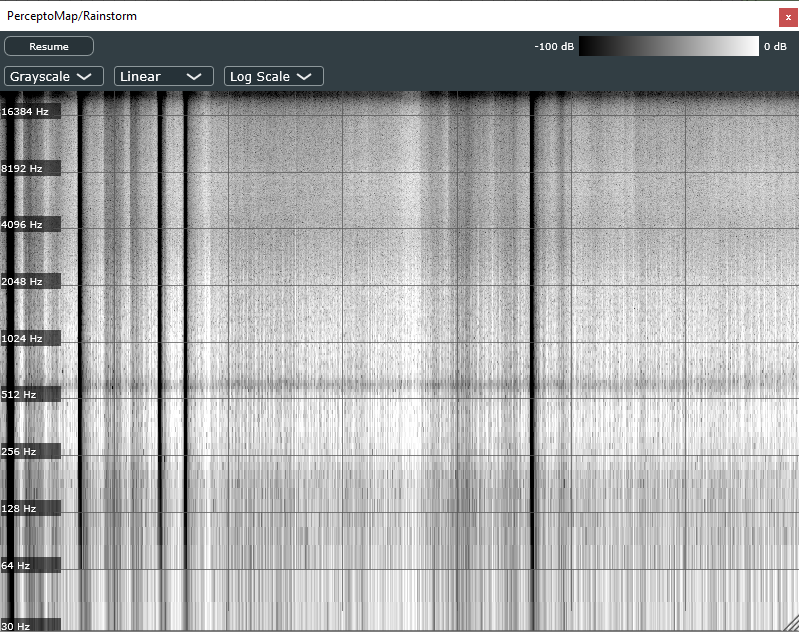
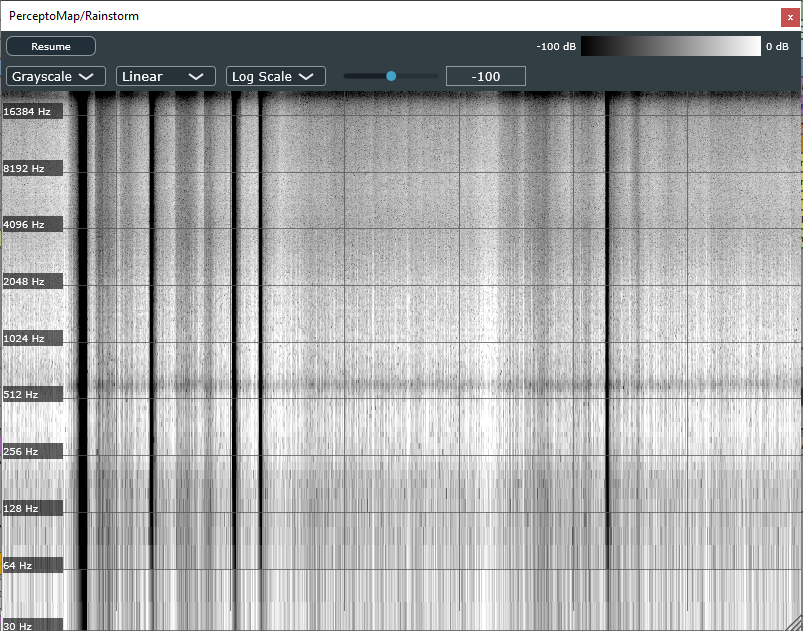
Release v0.3

diff --git a/README.md b/README.md
@@ -9,11 +9,12 @@ Unlike typical spectrum or spectrogram analyzers, it supports perceptual visuali
 > 🎧 If you're the kind of creator who trusts your ears above all — you might not need this.  
 > But if you're curious about how your audio *measures up* to what humans actually hear… welcome aboard.
 
-## Features
+## Key Features
 
 - Real-time **Mel Spectrogram** display with perceptual frequency scaling
 - Real-time **Mel-frequency cepstral coefficients (MFCCs)** representing timbral texture and spectral envelope
-- Visual analysis of **Chroma**, **Tempogram**, and other psychoacoustic features *(planned)*  
+- Real-time **Spectral Centroid** tracking to visualize spectral brightness (center of mass of STFT spectrum)
+- Visual analysis of **Chroma**, **Tempogram**, and other psychoacoustic features *(planned)* 
 - Configurable color maps
 - Optional dB scaling, log or linear frequency axis for classic linear STFT spectrogram
 - Freeze frame mode and interactive mouse hover to inspect frequency and loudness at any point
@@ -24,6 +25,23 @@ Unlike typical spectrum or spectrogram analyzers, it supports perceptual visuali
   <img src="_pics/gui_ableton_live_12.png" width="100%" alt="GUI" />
   <sub>Plugin User Interface in Ableton Live 12</sub>
 </p>
+
+---
+
+<table style="table-layout: fixed; width: 100%;">
+  <tr>
+    <td align="center" valign="top">
+      <img src="_pics/gui_resize_window_2.png" width="100%" alt="Resizable GUI Small" />
+      <br/>
+      <sub><strong>Resizable GUI</strong><br/>Window can shrink to fit minimal layout</sub>
+    </td>
+    <td align="center" valign="top">
+      <img src="_pics/gui_resize_window_1.png" width="100%" alt="Resizable GUI Large" />
+      <br/>
+      <sub><strong>Resizable GUI</strong><br/>Window expands for detailed viewing</sub>
+    </td>
+  </tr>
+</table>
 
 ---
 
@@ -49,24 +67,15 @@ Unlike typical spectrum or spectrogram analyzers, it supports perceptual visuali
 
 ---
 
-<p align="center">
-  <img src="_pics/gui_mouse_info.png" width="100%" alt="Hover Frequency Readout" />
-  <sub><strong>Hover Readout</strong><br/>Displays precise frequency and dB level under the mouse pointer</sub>
-</p>
-
----
-
 <table style="table-layout: fixed; width: 100%;">
   <tr>
     <td align="center" valign="top">
-      <img src="_pics/gui_resize_window_2.png" width="100%" alt="Resizable GUI Small" />
-      <br/>
-      <sub><strong>Resizable GUI</strong><br/>Window can shrink to fit minimal layout</sub>
+      <img src="_pics/gui_mouse_info.png" width="100%" alt="Hover Frequency Readout" />
+      <sub><strong>Hover Readout</strong><br/>Displays precise frequency, dB level, and corresponding MIDI note (C4 = Middle C) <span style="color: gray;">[added in v0.3]</span> under the mouse pointer.</sub>
     </td>
     <td align="center" valign="top">
-      <img src="_pics/gui_resize_window_1.png" width="100%" alt="Resizable GUI Large" />
-      <br/>
-      <sub><strong>Resizable GUI</strong><br/>Window expands for detailed viewing</sub>
+      <img src="_pics/gui_color_scheme_floor_value.png" width="100%" alt="Hover Frequency Readout" />
+      <sub><strong>Adjustable dB Floor Slider</strong><br/>Controls the minimum dB threshold for color brightness, helping visualize low-level signals. <span style="color: gray;">[added in v0.3]</span></sub>
     </td>
   </tr>
 </table>
@@ -116,18 +125,26 @@ Unlike typical spectrum or spectrogram analyzers, it supports perceptual visuali
       <sub>
         <strong>Mel-frequency cepstral coefficients (MFCCs):</strong>
         <i>
-          Captures the spectral envelope using Discrete Cosine Transform (DCT) over Mel energies. Represents timbral texture and vocal tract shape.
+          Captures the spectral envelope using Discrete Cosine Transform (DCT) over Mel energies. Represents timbral texture and vocal tract shape. <span style="color: gray;">[added in v0.2]</span>
+        </i>
+      </sub>
+    </td>
+    <td align="center" valign="top">
+      <img src="_pics/gui_spectral_centroid.png" width="100%" alt="blank" />
+      <br/>
+      <sub>
+        <strong>Spectral Centroid:</strong>
+        <i>
+          Indicates the "center of mass" of the spectrum. Tracks brightness and perceptual sharpness by showing where the dominant frequencies are concentrated over time. <span style="color: gray;">[added in v0.3]</span>
         </i>
       </sub>
     </td>
     <td align="center" valign="top">
       <img src="_pics/blank_800x630.png" width="100%" alt="blank" />
     </td>
-    <td align="center" valign="top">
-      <img src="_pics/blank_800x630.png" width="100%" alt="blank" />
-    </td>
   </tr>
 </table>
+
 
 ## Roadmap
 
@@ -136,9 +153,10 @@ Unlike typical spectrum or spectrogram analyzers, it supports perceptual visuali
 | Linear STFT Spectrogram | ✅ Done (v0.1) | Classic time–frequency analysis | FFT size = 2048, Hann window, with log/linear frequency axis display|
 | Mel-Spectrogram | ✅ Done (v0.1) | Nonlinear frequency scaling approximating human pitch perception | 128 bands, Slaney-style: `2595 * log10(1 + f / 700)`|
 | MFCC | ✅ Done (v0.2) | Mel frequency cepstral coefficients, compact representation of timbre based on perceptual log-mel spectrum | DCT-II on log-mel spectrum, 20 coefficients, no liftering, values clipped to [−100, 100] and normalized to [0, 1] for display |
+| Spectral Centroid (STFT-based) | ✅ Done (v0.3) | Tracks the "center of mass" of the spectrum; correlates with brightness and sharpness | Computed from linear STFT magnitude spectrum with smoothing (Exponential Moving Average), overlaid as a curve on the STFT spectrogram |
 | Chroma | ⏳ Planned | Pitch class mapping, projection of spectral energy onto 12 pitch classes (C, C#, D…) | - |
 | Tempogram / Rhythm Map | ⏳ Planned | Visualizes perceived tempo and rhythmic periodicities over time | - |
-| Spectral centroid / flatness | ⏳ Planned | Measures of brightness and tonal clarity in the spectrum | - |
+| Spectral Flatness / Contrast | ⏳ Planned | Measures of timbral characteristics | - |
 
 
 ## Why develop this plugin?
